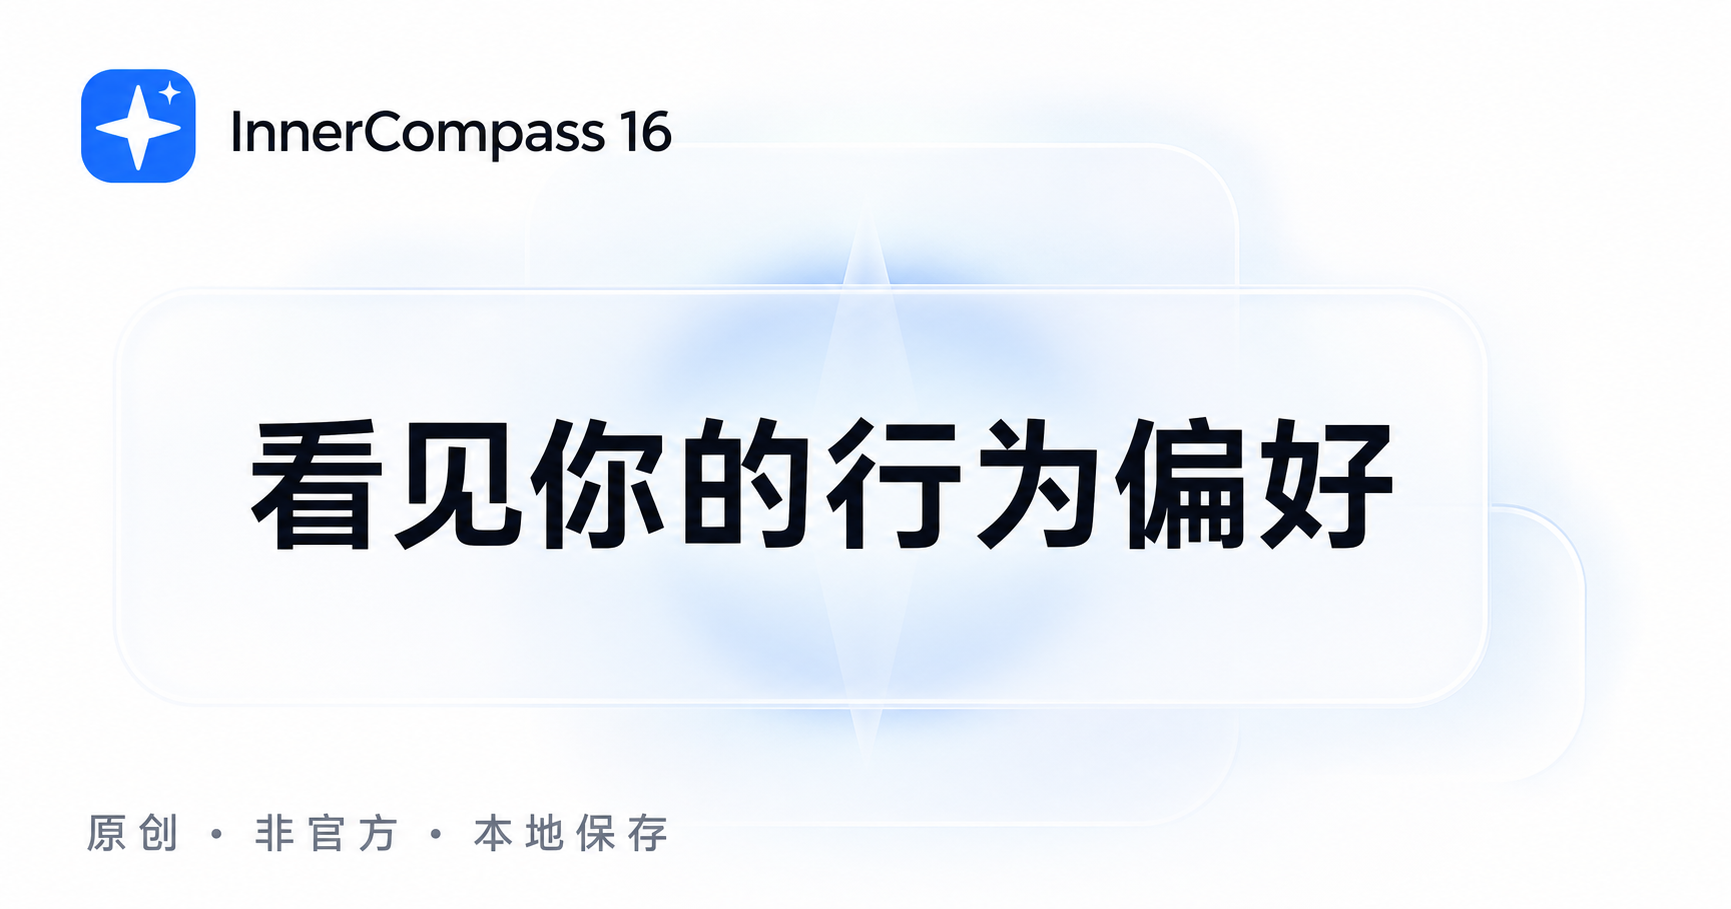
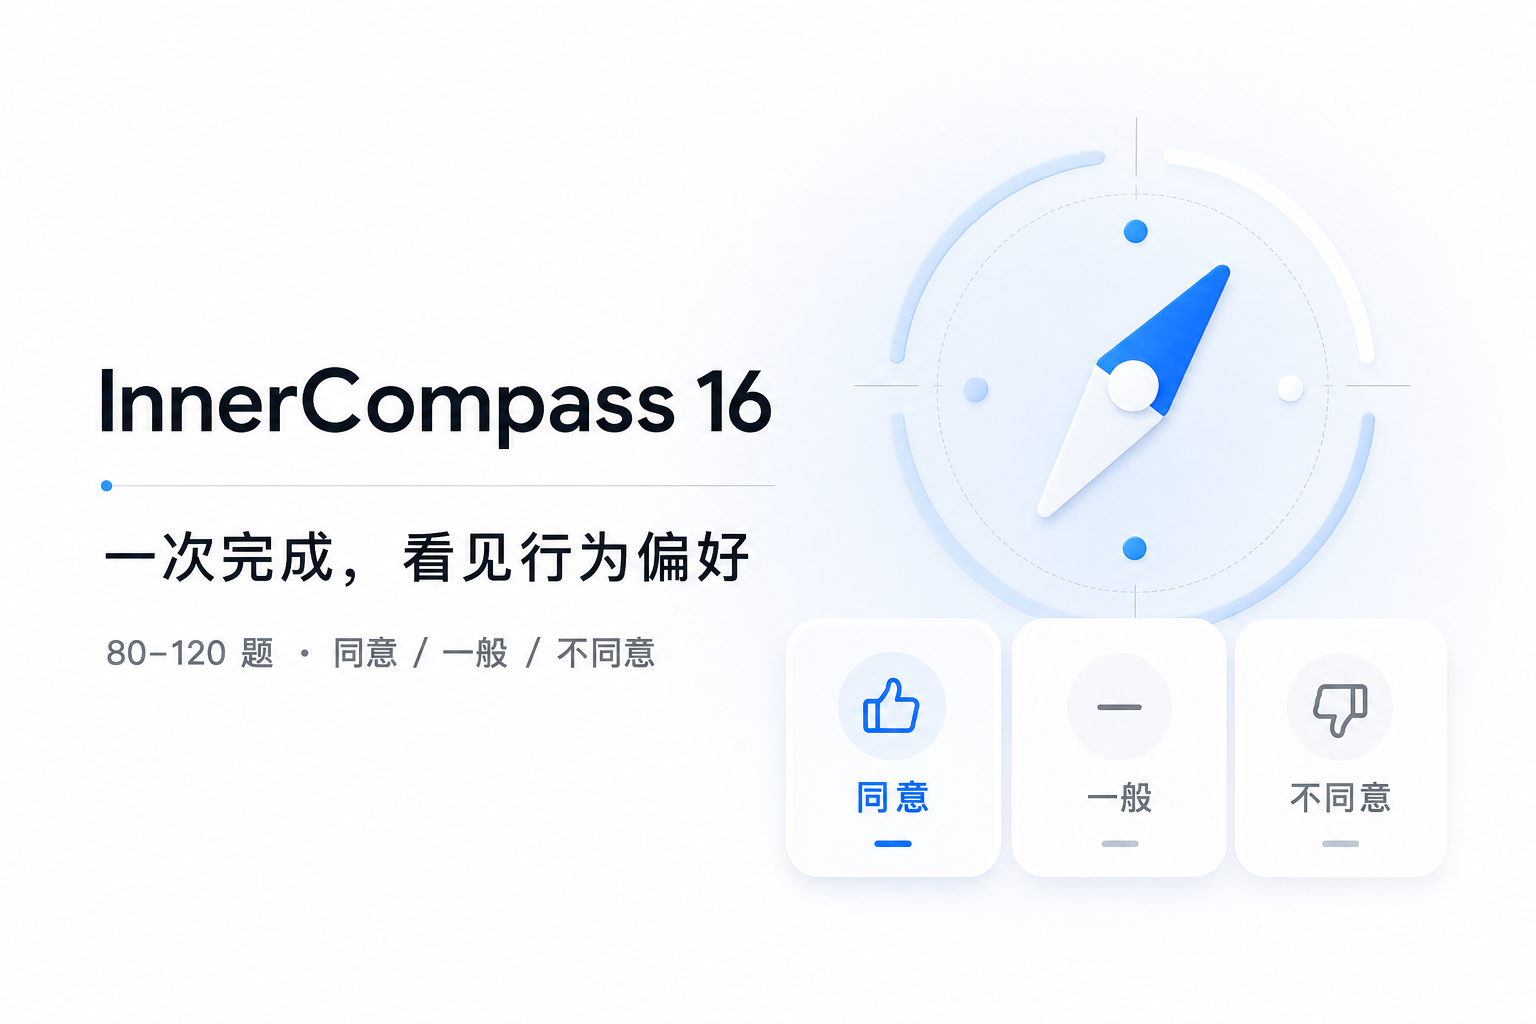
Redesign questionnaire as a single behavior survey

diff --git a/app/InnerCompassApp.tsx b/app/InnerCompassApp.tsx
@@ -5,15 +5,16 @@ import questionBankJson from "@/lib/data/question_bank_320.json";
 import profilesJson from "@/lib/data/type_profiles_16.json";
 import config from "@/lib/data/test_config.json";
 import reportSchema from "@/lib/data/report_schema.json";
+import { buildBehaviorQuestionBank } from "@/lib/questionBank";
 import { aggregateRuns, computeSessionResult, selectQuestions } from "@/lib/scoring";
 import type { AggregateResult, Axis, Question, ResponseRecord, SessionResult } from "@/lib/schemas";
 
-const STORE_KEY = "innercompass16:v1";
+const STORE_KEY = "innercompass16:v2";
 const AXES: Axis[] = ["EI", "SN", "TF", "JP"];
-const bank = questionBankJson.questions.map((question) => ({
-  ...question,
-  timeoutMs: config.session.questionTimeoutMs,
-})) as unknown as Question[];
+const bank = buildBehaviorQuestionBank(
+  questionBankJson.questions as unknown as Question[],
+  config.session.questionTimeoutMs,
+);
 
 type TypeProfile = {
   title: string;
@@ -38,19 +39,19 @@ type StoredSession = {
   createdAt: string;
   completedAt?: string;
   result?: SessionResult;
-  dataVersion: 1;
+  dataVersion: 2;
 };
 
-type Store = { version: 1; sessions: StoredSession[] };
+type Store = { version: 2; sessions: StoredSession[] };
 
-const emptyStore = (): Store => ({ version: 1, sessions: [] });
+const emptyStore = (): Store => ({ version: 2, sessions: [] });
 
 function loadStore(): Store {
   if (typeof window === "undefined") return emptyStore();
   try {
     const parsed = JSON.parse(localStorage.getItem(STORE_KEY) || "null");
     if (!parsed || !Array.isArray(parsed.sessions)) return emptyStore();
-    return { version: 1, sessions: parsed.sessions };
+    return { version: 2, sessions: parsed.sessions };
   } catch {
     return emptyStore();
   }
@@ -116,7 +117,7 @@ function AxisBars({ result, aggregate }: { result?: SessionResult; aggregate?: A
         const near = score.boundaryLabel === "near-boundary";
         return (
           <div className="axis-row" key={axis}>
-            <div className="axis-labels"><b>{score.leftPole} {Math.round(score.leftPercent)}%</b><span>{near ? "情境型" : aggregate ? aggregate.axes[axis].stabilityLabel === "stable" ? "稳定" : "待观察" : "本轮"}</span><b>{Math.round(score.rightPercent)}% {score.rightPole}</b></div>
+            <div className="axis-labels"><b>{score.leftPole} {Math.round(score.leftPercent)}%</b><span>{near ? "情境型" : aggregate ? "综合" : "本次"}</span><b>{Math.round(score.rightPercent)}% {score.rightPole}</b></div>
             <div className="axis-track" aria-label={`${score.leftPole} ${score.leftPercent}%，${score.rightPole} ${score.rightPercent}%`}>
               <span style={{ width: `${score.leftPercent}%` }} />
               <i />
@@ -136,21 +137,21 @@ function HomeView({ navigate, revision }: { navigate: (path: string) => void; re
     <Shell>
       <TopBar onHome={() => navigate("/")} action={<button className="text-button" onClick={() => navigate("/history")}>历史记录</button>} />
       <section className="hero">
-        <div className="hero-kicker"><span /> 原创 · 非官方 · 本地保存</div>
+        <div className="hero-kicker"><span /> 原创 · 非官方 · 一次完成</div>
         <h1>更安静地，<br />看见自己的<span>行为偏好</span>。</h1>
-        <p className="hero-copy">从生活与关系场景出发，用快速直觉回答，逐轮形成一份有边界、可验证的自我观察。</p>
+        <p className="hero-copy">从生活与关系中的真实行为出发，用简短感受判断，完成一次即可获得完整的偏好画像。</p>
         <div className="hero-actions">
           <button className="primary-button" onClick={() => navigate("/setup")}>开始第一次测试 <span>→</span></button>
           {active && <button className="secondary-button" onClick={() => navigate(`/test/${active.id}`)}>继续上次测试 · {active.currentIndex + 1}/{active.questionIds.length}</button>}
-          {!active && completed.length > 0 && <button className="secondary-button" onClick={() => navigate("/report")}>查看聚合报告</button>}
+          {!active && completed.length > 0 && <button className="secondary-button" onClick={() => navigate(`/run-result/${completed[0].id}`)}>查看最近结果</button>}
         </div>
         <div className="trust-row">
-          <span><b>64</b> 题 / 轮</span><i /><span><b>12</b> 秒直觉作答</span><i /><span>建议完成 <b>3</b> 轮</span>
+          <span><b>80–120</b> 题</span><i /><span><b>8</b> 秒快速判断</span><i /><span>完成 <b>1</b> 次即可</span>
         </div>
       </section>
       <section className="feature-grid">
         <article><span className="feature-icon">◌</span><h3>情境，而非标签</h3><p>同时观察日常生活与亲密关系中的偏好变化，不用一个字母概括全部的你。</p></article>
-        <article><span className="feature-icon">⌁</span><h3>逐轮验证</h3><p>一次结果只是初步画像。跨轮稳定性、临界维度与场景差异都会被如实呈现。</p></article>
+        <article><span className="feature-icon">⌁</span><h3>一次完整画像</h3><p>题量覆盖四个偏好维度与生活、关系场景，一次完成即可查看完整结果。</p></article>
         <article><span className="feature-icon">⌂</span><h3>答案只在本机</h3><p>无需注册，数据默认保存在当前设备的浏览器中，也可以随时导出或删除。</p></article>
       </section>
       <footer className="disclaimer">基于 MBTI 四偏好框架的原创非官方工具，不是官方认证评估，也不构成医学或心理诊断。</footer>
@@ -168,7 +169,7 @@ function SetupView({ navigate }: { navigate: (path: string) => void }) {
     const session: StoredSession = {
       id: `ic-${seed.toString(36)}`, seed, questionIds: selected.map((question) => question.id),
       currentIndex: 0, currentQuestionStartedAt: Date.now(), responses: [], status: "active",
-      createdAt: new Date().toISOString(), dataVersion: 1,
+      createdAt: new Date().toISOString(), dataVersion: 2,
     };
     upsertSession(session);
     navigate(`/test/${session.id}`);
@@ -177,16 +178,16 @@ function SetupView({ navigate }: { navigate: (path: string) => void }) {
     <Shell compact>
       <TopBar onHome={() => navigate("/")} action={<button className="text-button" onClick={() => navigate("/")}>取消</button>} />
       <section className="setup-card">
-        <div className="step-label">开始前 · 选择本轮题量</div>
+        <div className="step-label">开始前 · 选择本次题量</div>
         <h1>给自己一段<br />不被打扰的时间。</h1>
-        <p>每题最多 12 秒，没有标准答案。请选择此刻更自然的反应。</p>
+        <p>每题最多 8 秒，没有标准答案。请选择此刻更自然的反应。</p>
         <div className="count-selector" role="radiogroup" aria-label="题目数量">
-          {[50, 64, 80].map((value) => <button key={value} role="radio" aria-checked={count === value} className={count === value ? "selected" : ""} onClick={() => setCount(value)}><b>{value}</b><span>题</span>{value === 64 && <em>推荐</em>}</button>)}
+          {[80, 100, 120].map((value) => <button key={value} role="radio" aria-checked={count === value} className={count === value ? "selected" : ""} onClick={() => setCount(value)}><b>{value}</b><span>题</span>{value === 100 && <em>推荐</em>}</button>)}
         </div>
         <div className="setup-summary">
-          <div><span>预计用时</span><b>约 {Math.ceil(count * 8 / 60)}–{Math.ceil(count * 12 / 60)} 分钟</b></div>
+          <div><span>预计用时</span><b>约 {Math.ceil(count * 6 / 60)}–{Math.ceil(count * 8 / 60)} 分钟</b></div>
           <div><span>场景配比</span><b>生活 50% · 关系 50%</b></div>
-          <div><span>计时规则</span><b>每题 12 秒 · 不可返回</b></div>
+          <div><span>计时规则</span><b>每题 8 秒 · 不可返回</b></div>
         </div>
         <button className="primary-button wide" onClick={start}>我准备好了 <span>→</span></button>
         <p className="microcopy">键盘可使用 A / B / C 或 1 / 2 / 3 作答</p>
@@ -283,14 +284,14 @@ function TestView({ sessionId, navigate }: { sessionId: string; navigate: (path:
       <section className="question-stage" key={question.id}>
         <div className="question-number">第 {session.currentIndex + 1} 题</div>
         <h1>{question.prompt}</h1>
-        <div className="option-list">
+        <div className="option-list agreement-scale" aria-label="符合程度">
           {question.options.map((option, index) => (
             <button disabled={locked} className={chosen === option.id ? "chosen" : ""} key={option.id} onClick={() => submit(option.id)}>
-              <span>{String.fromCharCode(65 + index)}</span><b>{option.text}</b><i>→</i>
+              <span>{String.fromCharCode(65 + index)}</span><b>{option.text}</b>
             </button>
           ))}
         </div>
-        <p className="test-hint">凭第一反应选择，不需要寻找“更好的答案”</p>
+        <p className="test-hint">请选择这个行为描述与你的符合程度</p>
       </section>
     </Shell>
   );
@@ -302,31 +303,35 @@ function RunResultView({ sessionId, navigate }: { sessionId: string; navigate: (
   const result = session.result;
   const typeCode = AXES.map((axis) => result.axes[axis].rightPercent > 50 ? result.axes[axis].rightPole : result.axes[axis].leftPole).join("");
   const profile = profiles[typeCode];
-  const completedRuns = loadStore().sessions.filter((item) => item.result).length;
   return (
     <Shell>
       <TopBar onHome={() => navigate("/")} action={<button className="text-button" onClick={() => navigate("/history")}>历史记录</button>} />
       <section className="result-hero">
-        <div className="result-badge">第 {completedRuns} 轮 · {completedRuns >= 3 ? "稳定画像" : completedRuns === 2 ? "待验证画像" : "初步画像"}</div>
-        <p>本轮更接近</p><h1>{typeCode}</h1><h2>{profile?.title}</h2>
+        <div className="result-badge">完整画像 · {result.plannedCount} 题</div>
+        <p>你的行为偏好更接近</p><h1>{typeCode}</h1><h2>{profile?.title}</h2>
         <p className="result-overview">{profile?.overview}</p>
       </section>
-      <section className="report-card"><div className="section-heading"><div><span>偏好分布</span><h2>四个维度的本轮位置</h2></div><em>结果不是能力高低</em></div><AxisBars result={result} /></section>
+      <section className="report-card"><div className="section-heading"><div><span>偏好分布</span><h2>四个维度的本次位置</h2></div><em>结果不是能力高低</em></div><AxisBars result={result} /></section>
       <section className="metrics-grid">
         <article><span>完成率</span><b>{Math.round(result.completionRate * 100)}%</b><small>{result.answeredCount} / {result.plannedCount} 题有效</small></article>
-        <article><span>中位反应</span><b>{(result.medianResponseMs / 1000).toFixed(1)}s</b><small>反映本轮作答节奏</small></article>
+        <article><span>中位反应</span><b>{(result.medianResponseMs / 1000).toFixed(1)}s</b><small>反映本次作答节奏</small></article>
         <article><span>临界维度</span><b>{AXES.filter((axis) => result.axes[axis].boundaryLabel === "near-boundary").length}</b><small>接近中线时更受情境影响</small></article>
       </section>
+      {profile && <>
+        <section className="report-card intro-card"><div className="section-heading"><div><span>行为解读</span><h2>你更常使用的行为路径</h2></div></div><div className="insight-grid"><div><span>行为逻辑</span><p>{profile.behaviorLogic}</p></div><div><span>压力下的倾向</span><p>{profile.stressPattern}</p></div></div></section>
+        <section className="report-card split-report"><div><div className="section-heading"><div><span>亲密关系</span><h2>关系中的你</h2></div></div><p>{profile.relationship}</p></div><div><div className="section-heading"><div><span>优势证据</span><h2>你可以信任的部分</h2></div></div><ul className="bullet-list">{profile.strengths.map((item) => <li key={item}>{item}</li>)}</ul></div></section>
+        <section className="report-card"><div className="section-heading"><div><span>成长建议</span><h2>可以开始的小动作</h2></div></div><ol className="number-list">{profile.growth.map((item) => <li key={item}>{item}</li>)}</ol></section>
+      </>}
       <div className="result-actions">
-        <button className="primary-button" onClick={() => navigate(completedRuns >= 2 ? "/report" : "/setup")}>{completedRuns >= 2 ? "查看聚合报告" : "开始下一轮"} <span>→</span></button>
+        <button className="primary-button" onClick={() => navigate("/")}>完成并返回首页 <span>→</span></button>
         <button className="secondary-button" onClick={async () => {
-          const text = `我的 InnerCompass 16 初步画像是 ${typeCode} · ${profile?.title}`;
+          const text = `我的 InnerCompass 16 行为偏好画像是 ${typeCode} · ${profile?.title}`;
           const shareUrl = window.location.hostname.endsWith("github.io") ? window.location.href.split("#")[0] : window.location.origin;
           if (navigator.share) await navigator.share({ title: "InnerCompass 16", text, url: shareUrl });
           else await navigator.clipboard.writeText(`${text} ${shareUrl}`);
         }}>分享结果</button>
       </div>
-      <p className="disclaimer centered">单轮结果容易受当下状态与计时压力影响，建议完成 3 轮再观察稳定偏好。</p>
+      <p className="disclaimer centered">一次完成即可形成完整画像；结果反映当前的行为偏好，不构成医学或心理诊断。</p>
     </Shell>
   );
 }
@@ -339,7 +344,7 @@ function downloadReportPng(aggregate: AggregateResult, profile: TypeProfile) {
   ctx.fillStyle = "#f7f8fb"; ctx.fillRect(0, 0, canvas.width, canvas.height);
   ctx.fillStyle = "#ffffff"; ctx.roundRect(70, 70, 1060, 1360, 40); ctx.fill();
   ctx.fillStyle = "#111318"; ctx.font = "700 38px system-ui"; ctx.fillText("InnerCompass 16", 130, 155);
-  ctx.fillStyle = "#6b7280"; ctx.font = "26px system-ui"; ctx.fillText("我的聚合偏好画像", 130, 220);
+  ctx.fillStyle = "#6b7280"; ctx.font = "26px system-ui"; ctx.fillText("我的行为偏好画像", 130, 220);
   ctx.fillStyle = "#111318"; ctx.font = "800 150px system-ui"; ctx.fillText(aggregate.typeCode, 130, 420);
   ctx.font = "700 42px system-ui"; ctx.fillText(profile.title, 130, 490);
   ctx.fillStyle = "#6b7280"; ctx.font = "26px system-ui";
@@ -372,14 +377,14 @@ function ReportView({ navigate }: { navigate: (path: string) => void }) {
     <Shell>
       <TopBar onHome={() => navigate("/")} action={<div className="top-actions"><button className="text-button" onClick={() => downloadReportPng(aggregate, profile)}>导出 PNG</button><button className="text-button" onClick={() => window.print()}>打印 / PDF</button></div>} />
       <section className="report-header">
-        <div><span>{runs.length >= 3 ? "稳定画像" : runs.length === 2 ? "待验证画像" : "初步画像"} · {runs.length} 轮数据</span><h1>{aggregate.typeCode}</h1><h2>{profile.title}</h2></div>
+        <div><span>完整画像 · {runs.length} 份本地记录</span><h1>{aggregate.typeCode}</h1><h2>{profile.title}</h2></div>
         <div className="confidence-ring"><b>{Math.round(aggregate.overallConfidence)}</b><span>可信度 · {confidenceLabel(aggregate.overallConfidence)}</span></div>
       </section>
       <section className="report-card intro-card"><div className="section-heading"><div><span>心理概述</span><h2>你更常使用的行为路径</h2></div></div><p className="lead-copy">{profile.overview}</p><div className="insight-grid"><div><span>行为逻辑</span><p>{profile.behaviorLogic}</p></div><div><span>压力下的倾向</span><p>{profile.stressPattern}</p></div></div></section>
-      <section className="report-card"><div className="section-heading"><div><span>四维度占比</span><h2>偏好位置与跨轮稳定性</h2></div><em>数字比标签更重要</em></div><AxisBars aggregate={aggregate} /></section>
+      <section className="report-card"><div className="section-heading"><div><span>四维度占比</span><h2>偏好位置</h2></div><em>数字比标签更重要</em></div><AxisBars aggregate={aggregate} /></section>
       {gaps.length > 0 && <section className="switch-card"><span>场景切换</span><h2>你会根据关系距离，调整行为权重。</h2>{gaps.map(({ axis, life, relationship }) => <p key={axis}>在 {axis} 维度上，你的生活场景位置为 {Math.round(life)}%，关系场景为 {Math.round(relationship)}%。这不代表前后矛盾，而是你在亲密关系中使用了不同的应对权重。</p>)}</section>}
       <section className="report-card"><div className="section-heading"><div><span>生活特性</span><h2>八项可观察偏好</h2></div></div><div className="feature-score-grid">{featureEntries.map(([name, score]) => <div key={name}><span>{name}</span><b>{Math.round(score)}</b><i><em style={{ width: `${score}%` }} /></i></div>)}</div></section>
-      <section className="report-card split-report"><div><div className="section-heading"><div><span>亲密关系</span><h2>关系中的你</h2></div></div><p>{profile.relationship}</p></div><div><div className="section-heading"><div><span>数据质量</span><h2>这份结果如何理解</h2></div></div><ul className="quality-list"><li>加权完成率 <b>{Math.round(aggregate.dataQuality.weightedCompletionRate)}%</b></li><li>快速作答比例 <b>{Math.round(aggregate.dataQuality.meanTooFastRate)}%</b></li><li>当前共完成 <b>{aggregate.runCount} 轮</b></li></ul></div></section>
+      <section className="report-card split-report"><div><div className="section-heading"><div><span>亲密关系</span><h2>关系中的你</h2></div></div><p>{profile.relationship}</p></div><div><div className="section-heading"><div><span>数据质量</span><h2>这份结果如何理解</h2></div></div><ul className="quality-list"><li>加权完成率 <b>{Math.round(aggregate.dataQuality.weightedCompletionRate)}%</b></li><li>快速作答比例 <b>{Math.round(aggregate.dataQuality.meanTooFastRate)}%</b></li><li>本地问卷记录 <b>{aggregate.runCount} 份</b></li></ul></div></section>
       <section className="report-card split-report"><div><div className="section-heading"><div><span>优势证据</span><h2>你可以信任的部分</h2></div></div><ul className="bullet-list">{profile.strengths.map((item) => <li key={item}>{item}</li>)}</ul></div><div><div className="section-heading"><div><span>成长建议</span><h2>可以开始的小动作</h2></div></div><ol className="number-list">{profile.growth.map((item) => <li key={item}>{item}</li>)}</ol></div></section>
       <section className="report-note"><h3>{reportSchema.reportSections.at(-1)?.title}</h3><p>{reportSchema.reportSections.at(-1) && "text" in reportSchema.reportSections.at(-1)! ? reportSchema.reportSections.at(-1)!.text : "本结果用于自我观察，不构成诊断。"}</p></section>
     </Shell>
@@ -398,15 +403,14 @@ function HistoryView({ navigate, refresh }: { navigate: (path: string) => void; 
   return (
     <Shell>
       <TopBar onHome={() => navigate("/")} action={store.sessions.length ? <button className="text-button" onClick={exportJson}>导出 JSON</button> : null} />
-      <section className="history-header"><span>你的本地记录</span><h1>每一轮，都是一次<br />更清楚的自我观察。</h1><p>记录仅保存在当前浏览器中。</p></section>
+      <section className="history-header"><span>你的本地记录</span><h1>每次问卷，都是一份<br />完整的自我观察。</h1><p>记录仅保存在当前浏览器中。</p></section>
       <section className="history-list">
-        {!store.sessions.length && <div className="empty-card"><Logo /><h2>还没有记录</h2><p>完成第一轮后，你会在这里看到结果与变化。</p><button className="primary-button" onClick={() => navigate("/setup")}>开始测试 <span>→</span></button></div>}
+        {!store.sessions.length && <div className="empty-card"><Logo /><h2>还没有记录</h2><p>完成一次问卷后，你会在这里看到完整结果。</p><button className="primary-button" onClick={() => navigate("/setup")}>开始测试 <span>→</span></button></div>}
         {store.sessions.map((session, index) => {
           const type = session.result ? AXES.map((axis) => session.result!.axes[axis].rightPercent > 50 ? session.result!.axes[axis].rightPole : session.result!.axes[axis].leftPole).join("") : "进行中";
           return <article key={session.id}><div className="history-index">{String(index + 1).padStart(2, "0")}</div><div><span>{formatDate(session.createdAt)} · {session.questionIds.length} 题</span><h2>{type} {session.result && <small>{profiles[type]?.title}</small>}</h2><p>{session.status === "active" ? `已完成 ${session.currentIndex} / ${session.questionIds.length}` : `完成率 ${Math.round((session.result?.completionRate || 0) * 100)}% · 中位反应 ${((session.result?.medianResponseMs || 0) / 1000).toFixed(1)} 秒`}</p></div><div className="history-actions"><button onClick={() => navigate(session.status === "active" ? `/test/${session.id}` : `/run-result/${session.id}`)}>{session.status === "active" ? "继续" : "查看"}</button><button className="danger" onClick={() => remove(session.id)}>删除</button></div></article>;
         })}
       </section>
-      {store.sessions.some((item) => item.result) && <div className="floating-report"><span>聚合画像会综合多轮稳定性</span><button onClick={() => navigate("/report")}>查看聚合报告 →</button></div>}
     </Shell>
   );
 }

diff --git a/lib/questionBank.ts b/lib/questionBank.ts
@@ -1,0 +1,44 @@
+import type { Pole, Question, QuestionOption } from "./schemas";
+
+function behaviorStatement(question: Question, behavior: string): string {
+  const context = question.prompt.startsWith("当")
+    ? question.prompt.slice(1).replace(/时，你通常更倾向于：$/, "")
+    : question.prompt.replace(/。哪种后续状态更接近你？$/, "");
+  const cleanBehavior = behavior.replace(/[。；;]$/, "");
+  return `面对「${context}」这类情境，我的实际反应通常是：${cleanBehavior}。`;
+}
+
+function poleForScore(question: Question, score: -1 | 1): Pole {
+  return score === 1 ? question.rightPole : question.leftPole;
+}
+
+/**
+ * 将 320 道三选一情境题转为 640 道平衡的行为陈述题。
+ * 每个原题的两个明确方向各生成一道题，同意/不同意会随陈述方向翻转计分。
+ */
+export function buildBehaviorQuestionBank(
+  source: Question[],
+  timeoutMs: number,
+): Question[] {
+  return source.flatMap((question) =>
+    question.options
+      .filter((option): option is QuestionOption & { score: -1 | 1 } => option.score !== 0)
+      .map((behavior) => {
+        const agreeScore = behavior.score;
+        const disagreeScore = (agreeScore * -1) as -1 | 1;
+        const direction = agreeScore === 1 ? "R" : "L";
+
+        return {
+          ...question,
+          id: `${question.id}-${direction}`,
+          prompt: behaviorStatement(question, behavior.text),
+          options: [
+            { id: "A", text: "同意", score: agreeScore, pole: poleForScore(question, agreeScore) },
+            { id: "B", text: "一般", score: 0, pole: null },
+            { id: "C", text: "不同意", score: disagreeScore, pole: poleForScore(question, disagreeScore) },
+          ],
+          timeoutMs,
+        } satisfies Question;
+      }),
+  );
+}

diff --git a/lib/scoring.ts b/lib/scoring.ts
@@ -108,19 +108,19 @@ function scoreAxis(
 
 /**
  * 分层抽题：
- * 1. 题数限制在 50–80；
+ * 1. 题数限制在 80–120；
  * 2. EI/SN/TF/JP 与 life/relationship 尽量均衡；
- * 3. 同一 mirrorGroup 在单轮最多出现一次；
- * 4. 优先避开最近三轮出现过的题；
+ * 3. 同一 mirrorGroup 在一次问卷中最多出现一次；
+ * 4. 再次填写时优先避开最近出现过的题；
  * 5. 最后统一洗牌，前端不展示维度。
  */
 export function selectQuestions(
   bank: Question[],
-  requestedCount = 64,
+  requestedCount = 100,
   recentQuestionIds: string[] = [],
   seed = Date.now(),
 ): Question[] {
-  const count = Math.round(clamp(requestedCount, 50, 80));
+  const count = Math.round(clamp(requestedCount, 80, 120));
   const random = mulberry32(seed);
   const recent = new Set(recentQuestionIds);
 
@@ -160,12 +160,24 @@ export function selectQuestions(
         break;
       }
       if (chosenIds.has(q.id) || mirrorGroups.has(q.mirrorGroup)) continue;
-      if ((facetCounts.get(q.facet) ?? 0) >= 3) continue;
+      if ((facetCounts.get(q.facet) ?? 0) >= 4) continue;
 
       chosen.push(q);
       chosenIds.add(q.id);
       mirrorGroups.add(q.mirrorGroup);
       facetCounts.set(q.facet, (facetCounts.get(q.facet) ?? 0) + 1);
+    }
+
+    // 高题量下先放宽分面上限，仍保持当前维度与场景的目标题数。
+    for (const q of preferred) {
+      if (chosen.filter((x) => x.axis === cell.axis && x.domain === cell.domain).length >= target) {
+        break;
+      }
+      if (chosenIds.has(q.id) || mirrorGroups.has(q.mirrorGroup)) continue;
+
+      chosen.push(q);
+      chosenIds.add(q.id);
+      mirrorGroups.add(q.mirrorGroup);
     }
   }
 
@@ -235,8 +247,7 @@ export function computeSessionResult(
     facetScores[facet] = round1(((mean + 1) / 2) * 100);
   }
 
-  // 同一 mirrorGroup 的两个版本在多轮中出现时，可由持久层进一步计算。
-  // 单轮通常禁止同组同时出现，因此这里保留 0，聚合时从历史回答计算。
+  // 同一 mirrorGroup 在一次问卷中不会重复，因此这里保留 0。
   const contradictionRate = 0;
 
   return {

diff --git a/app/layout.tsx b/app/layout.tsx
@@ -2,11 +2,18 @@ import type { Metadata } from "next";
 import "./globals.css";
 
 export const metadata: Metadata = {
+  metadataBase: new URL("https://dongdongzou.github.io/mbti-dongdongzou/"),
   title: "InnerCompass 16｜看见你的行为偏好",
-  description: "从生活与关系场景，看见你的行为偏好。原创、非官方、仅保存在本机的人格偏好探索工具。",
+  description: "一次完成 80–120 道行为陈述题，用同意、一般、不同意看见你的行为偏好。",
   openGraph: {
     title: "InnerCompass 16",
-    description: "从生活与关系场景，看见你的行为偏好",
+    description: "一次完成，看见行为偏好",
+    images: [{ url: "/og.png", width: 1536, height: 1024, alt: "InnerCompass 16 行为偏好问卷" }],
+  },
+  twitter: {
+    card: "summary_large_image",
+    title: "InnerCompass 16",
+    description: "一次完成，看见行为偏好",
     images: ["/og.png"],
   },
 };

diff --git a/pages/index.html b/pages/index.html
@@ -4,10 +4,14 @@
     <meta charset="UTF-8" />
     <meta name="viewport" content="width=device-width, initial-scale=1.0" />
     <meta name="theme-color" content="#ffffff" />
-    <meta name="description" content="从生活与关系场景，看见你的行为偏好。" />
+    <meta name="description" content="一次完成 80–120 道行为陈述题，用同意、一般、不同意看见你的行为偏好。" />
     <meta property="og:title" content="InnerCompass 16" />
-    <meta property="og:description" content="从生活与关系场景，看见你的行为偏好" />
-    <meta property="og:image" content="./og.png" />
+    <meta property="og:description" content="一次完成，看见行为偏好" />
+    <meta property="og:image" content="https://dongdongzou.github.io/mbti-dongdongzou/og.png" />
+    <meta name="twitter:card" content="summary_large_image" />
+    <meta name="twitter:title" content="InnerCompass 16" />
+    <meta name="twitter:description" content="一次完成，看见行为偏好" />
+    <meta name="twitter:image" content="https://dongdongzou.github.io/mbti-dongdongzou/og.png" />
     <title>InnerCompass 16｜看见你的行为偏好</title>
   </head>
   <body>

diff --git a/app/globals.css b/app/globals.css
@@ -84,6 +84,10 @@ button:focus-visible { outline:3px solid rgba(22,119,255,.28); outline-offset:3p
 .option-list button.chosen>span { color:#fff; background:var(--blue); }
 .option-list b { font-size:16px; line-height:1.55; font-weight:610; }
 .option-list i { color:#b8bec8; font-style:normal; font-size:20px; }
+.agreement-scale { display:grid; grid-template-columns:repeat(3,1fr); }
+.agreement-scale button { min-height:112px; grid-template-columns:1fr; place-items:center; text-align:center; gap:9px; padding:18px; }
+.agreement-scale button>span { width:34px; height:34px; }
+.agreement-scale b { font-size:17px; }
 .test-hint { margin:28px 0 0; text-align:center; color:#9aa0aa; font-size:12px; }
 
 .result-hero { max-width:760px; margin:0 auto; padding:82px 0 54px; text-align:center; }
@@ -190,6 +194,8 @@ button:focus-visible { outline:3px solid rgba(22,119,255,.28); outline-offset:3p
   .question-stage { padding:58px 0 54px; }
   .question-stage h1 { min-height:128px; margin-bottom:28px; font-size:30px; }
   .option-list button { min-height:68px; padding-right:14px; }
+  .agreement-scale { grid-template-columns:repeat(3,1fr); gap:8px; }
+  .agreement-scale button { min-height:96px; padding:12px 8px; }
   .report-card,.switch-card { padding:27px 22px; border-radius:22px; }
   .report-header { min-height:0; padding:54px 8px 36px; flex-direction:column; text-align:center; }
   .report-header h1 { font-size:82px; }